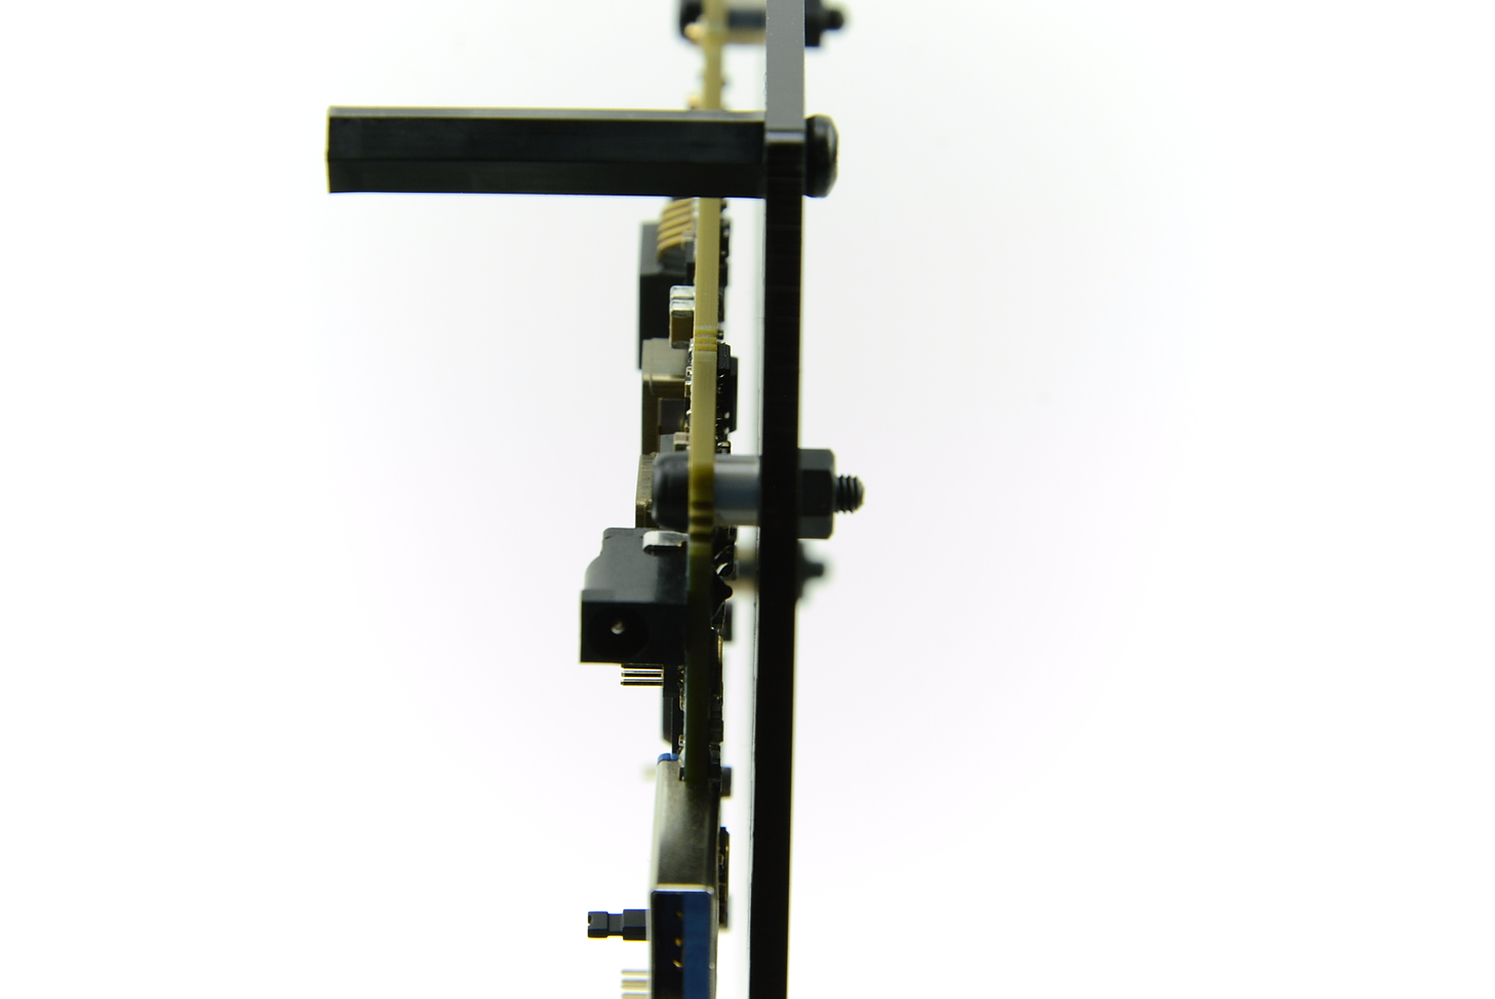
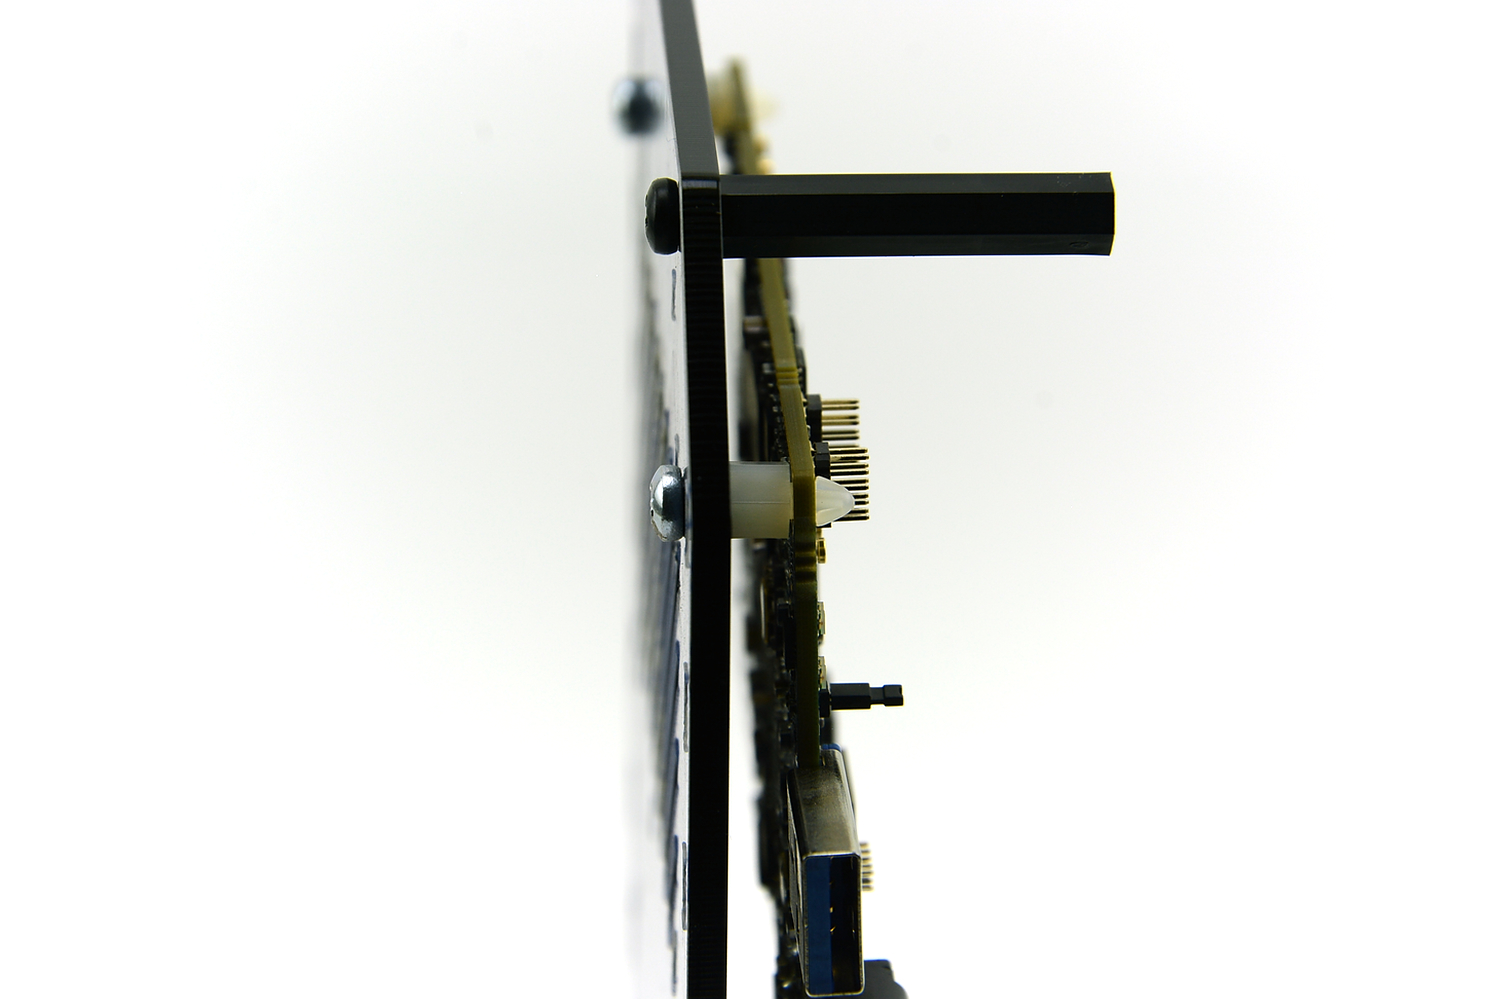
Update assembly guide, photos and BOM
- Updated assembly guide to include note about using standoffs attached to LimeSDR PCB
- Updated assembly guide photo to show detail of PCB standoff
- Updated BOM to remove nylon nuts, screws and spacers in favour of M3x5 hardware

Changed region(s): [[0.2154, 0.0, 0.7692, 1.0]]

diff --git a/ASSEMBLY.md b/ASSEMBLY.md
@@ -16,7 +16,7 @@ This document outlines the assembly steps to successfully assemble your LimeSDR-
 4. Fasten the fan to the top piece, using the four rubber barbed mounts
 ![Photo showing the fan securely fastened to the top piece using rubber barbed mounts](images/fan_mounting.jpg)
 
-5. Fasten the LimeSDR to the base piece using the four 3mm spacers, 4x nylon M3 screws and 4x M3 nuts
+5. Fasten the LimeSDR to the base piece using the four M3x5 screws & standoffs fastened to the LimeSDR PCB (Note: pliers might be helpful to hold the PCB standoffs stationary whilst tightening the screws)
 ![Closeup photo showing the order of components to secure the LimeSDR to the base](images/pcb_mounting.jpg)
 
 6. Insert the four side panels so that the connectors line up with the LimeSDR connectors - at this point U.FL pigtails should also be fastened to the panels

diff --git a/README.md b/README.md
@@ -29,9 +29,9 @@ In addition to the acrylic parts the kit contains:
 |  1  | 2-pin 0.1" male header                                       |
 |  4  | Self-tapping fans screws OR rubber fan mounts                |
 |  4  | 30mm black nylon M3 F-F hex spacers                          |
-|  4  | 3mm circular spacer
-|  8  | 12mm black nylon M3 screws                                   |
-|  8  | Black nylon M3 nuts                                          |
+|  4  | M3x5 screws                                                  |
+|  4  | 12mm black nylon M3 screws                                   |
+|  4  | Black nylon M3 nuts                                          |
 |  8  | Black steel M3 screws                                        |
 |  4  | Rubber bumpers                                               |
 
